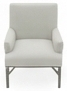
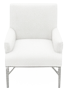
Fix transparency/shape mismatches, follow object rotation, add flip-to-mirror
7 of the 15 Styles photos had an opaque white background instead of
transparent -- a later fix pass (swapping in cleaner crops to remove
caption-bleed and better-match shapes) copied straight from the raw
crop folder and skipped the make_transparent() step, leaving a visible
box around those specific icons. Reprocessed all 7 through it.

Also re-picked three photos that were the wrong shape for their label:
round ottoman was square/hexagonal fabric, then a stool with legs --
now an actual round, legless upholstered ottoman; counter stool had
short stubby legs, swapped for one with visibly taller legs.

Furniture labels now inherit the object's own rotation by default
(turning a chair turns its name with it) instead of always counter-
rotating back to upright -- item.labelRot, set via the label's spin
handle, still overrides to a fixed absolute angle once the user
manually sets one; that behavior is unchanged, just no longer the
default for everyone. Fixed a real pre-existing bug found along the
way: the resize-node drag handler referenced `icon` from a sibling
`if` block it has no scope access to, throwing on every resize drag
(silently, since the object still looked right after the drag-driven
full re-render papered over it) -- hoisted the declaration so live
resize actually updates the icon markup/flip during the drag itself,
not just after release.

New: dragging a resize node past the item's own center (e.g. the east
[…]

diff --git a/index.html b/index.html
@@ -815,7 +815,7 @@
   // commit (derived from a content hash of index.html/manifest.json/icons) --
   // never hand-bumped, so it always reflects what's actually deployed and can
   // be used to confirm a reload picked up the latest push.
-  const APP_VERSION = '1.0+a69f6dd7';
+  const APP_VERSION = '1.0+b5355901';
 
   // ---------- PWA: generic centered popup ----------
   // Reused for install/uninstall steps, the About panel (this single-screen
@@ -1522,6 +1522,14 @@
     }
     return '';
   }
+  // Mirrors just the icon artwork -- never the label div, which is a sibling
+  // of this <svg>, not a child of it, so a name stays readable left-to-right
+  // no matter how the furniture itself is flipped. See the 'e'/'w'/'n'/'s'/
+  // corner resize-node handlers below for how flipW/flipD get set (dragging
+  // a node past the item's own center, to the opposite side).
+  function fpApplyIconFlip(icon, item){
+    icon.style.transform = `scale(${item.flipW?-1:1}, ${item.flipD?-1:1})`;
+  }
 
   function fpAddObjectFromTemplate(tpl, cx, cy){
     fpPushHistory();
@@ -1765,12 +1773,15 @@
   // entity itself moves or rotates) while a plain tap/click still opens its
   // details modal. Shared by furniture objects and structural lines alike.
   function fpWireDraggableLabel(label, item, centerPx, rotDeg, scale, defaultDx, defaultDy, onClick, selected, defaultLabelRot){
-    // The label's own on-screen angle is kept independent of the entity's
-    // rotation -- item.labelRot (default 0) is the ABSOLUTE screen angle the
-    // text is drawn at, so by default (labelRot unset) text stays upright
-    // and readable no matter how far the object/wall itself is turned,
-    // instead of inheriting rotDeg and ending up upside down or sideways.
-    // Subtracting rotDeg here is what cancels out the entity's own rotation.
+    // Default: the label is a DOM child of the object's own rotated element
+    // (see el.appendChild(label) below), so it inherits item.rot for free --
+    // this function just adds defaultLabelRot (usually 0) on top, so turning
+    // the object turns its name with it. Once the user drags the spin
+    // handle, item.labelRot switches to an ABSOLUTE screen angle instead:
+    // subtracting liveRotDeg here cancels the inherited rotation back out,
+    // locking the text at that fixed angle no matter how the object is
+    // rotated afterward -- "manually set" overrides "follows the object"
+    // from then on, it doesn't blend the two.
     function reposition(){
       const dx = item.labelDx!=null ? item.labelDx : defaultDx;
       const dy = item.labelDy!=null ? item.labelDy : defaultDy;
@@ -1781,7 +1792,7 @@
       // angle, not the angle from the last full render. Lines/walls have no
       // .rot field at all, so they fall back to the fixed rotDeg (always 0).
       const liveRotDeg = item.rot!=null ? item.rot : rotDeg;
-      const labelDeg = (item.labelRot!=null ? item.labelRot : (defaultLabelRot||0)) - (liveRotDeg||0);
+      const labelDeg = item.labelRot!=null ? (item.labelRot - (liveRotDeg||0)) : (defaultLabelRot||0);
       Object.assign(label.style, {
         left:(centerPx.x + dx*scale)+'px', top:(centerPx.y + dy*scale)+'px',
         right:'auto', bottom:'auto', marginBottom:'0',
@@ -3991,12 +4002,19 @@
       el.dataset.id = item.id;
       updateObjStyle(el, item);
 
+      // Declared here (not `const` inside the block below) so the resize-
+      // node drag handler further down -- a separate `if(!isLabelType)`
+      // block, not nested inside this one -- can still reach it to live-
+      // update the viewBox/artwork/flip while dragging, instead of only
+      // picking up the resize on the next full fpRender() after pointerup.
+      let icon = null;
       if(!isLabelType){
-        const icon = document.createElementNS(SVG_NS, 'svg');
+        icon = document.createElementNS(SVG_NS, 'svg');
         icon.setAttribute('viewBox', `0 0 ${item.w} ${item.d}`);
         icon.setAttribute('preserveAspectRatio', 'none');
         icon.setAttribute('class', 'fp-item-icon');
         icon.innerHTML = fpIconMarkup(item);
+        fpApplyIconFlip(icon, item);
         el.appendChild(icon);
       }
 
@@ -4101,8 +4119,18 @@
         // into a rectangle, or a circle into an oval -- doesn't require
         // dragging a corner at an exact diagonal to avoid nudging the other
         // axis too. All 8 resize the same way otherwise (symmetric about
-        // cx/cy, honoring rotation).
-        const RESIZE_NODES = { nw:{w:1,d:1}, ne:{w:1,d:1}, sw:{w:1,d:1}, se:{w:1,d:1}, n:{d:1}, s:{d:1}, e:{w:1}, w:{w:1} };
+        // cx/cy, honoring rotation). Each node also has a "home" side
+        // (homeSx/homeSy) -- if the cursor crosses over to the OTHER side of
+        // the item's own center on that node's axis (e.g. dragging the east
+        // handle past the west edge), that reads as "flip", not "shrink to
+        // zero and re-grow": item.flipW/flipD toggle on, mirroring just the
+        // icon (fpApplyIconFlip) so a left-facing sectional can become
+        // right-facing without retyping its name backwards.
+        const RESIZE_NODES = {
+          nw:{w:1,d:1,homeSx:-1,homeSy:-1}, ne:{w:1,d:1,homeSx:1,homeSy:-1},
+          sw:{w:1,d:1,homeSx:-1,homeSy:1}, se:{w:1,d:1,homeSx:1,homeSy:1},
+          n:{d:1,homeSy:-1}, s:{d:1,homeSy:1}, e:{w:1,homeSx:1}, w:{w:1,homeSx:-1},
+        };
         Object.keys(RESIZE_NODES).forEach(corner=>{
           const axes = RESIZE_NODES[corner];
           const node = document.createElement('div');
@@ -4120,11 +4148,18 @@
               const mx = (ev.clientX-rect.left)/scale, my = (ev.clientY-rect.top)/scale;
               const dxr = mx-item.cx, dyr = my-item.cy; // feet, relative to center
               const lx = dxr*cr - dyr*sr, ly = dxr*sr + dyr*cr; // feet, in the item's local (unrotated) axes
-              if(axes.w) item.w = Math.max(2, Math.round(Math.abs(lx)*12))*2;
-              if(axes.d) item.d = Math.max(2, Math.round(Math.abs(ly)*12))*2;
+              if(axes.w){
+                item.w = Math.max(2, Math.round(Math.abs(lx)*12))*2;
+                if(lx!==0) item.flipW = Math.sign(lx)!==axes.homeSx;
+              }
+              if(axes.d){
+                item.d = Math.max(2, Math.round(Math.abs(ly)*12))*2;
+                if(ly!==0) item.flipD = Math.sign(ly)!==axes.homeSy;
+              }
               updateObjStyle(el, item);
               icon.setAttribute('viewBox', `0 0 ${item.w} ${item.d}`);
               icon.innerHTML = fpIconMarkup(item);
+              fpApplyIconFlip(icon, item);
             }
             function onUp(){
               node.removeEventListener('pointermove', onMove);

diff --git a/sw.js b/sw.js
@@ -18,7 +18,7 @@
 // stamps manifest.json's icon src URLs (and index.html's apple-touch-icon
 // href) with a content hash whenever the icon files change, so a real icon
 // update always gets a new URL for this check to notice.
-const CACHE_NAME = 'floorplanner-shell-a9bdb817bf27';
+const CACHE_NAME = 'floorplanner-shell-94e887ee0291';
 const PRECACHE_URLS = [
   './index.html', './manifest.json', './icon-192.png', './icon-512.png'
 ];
